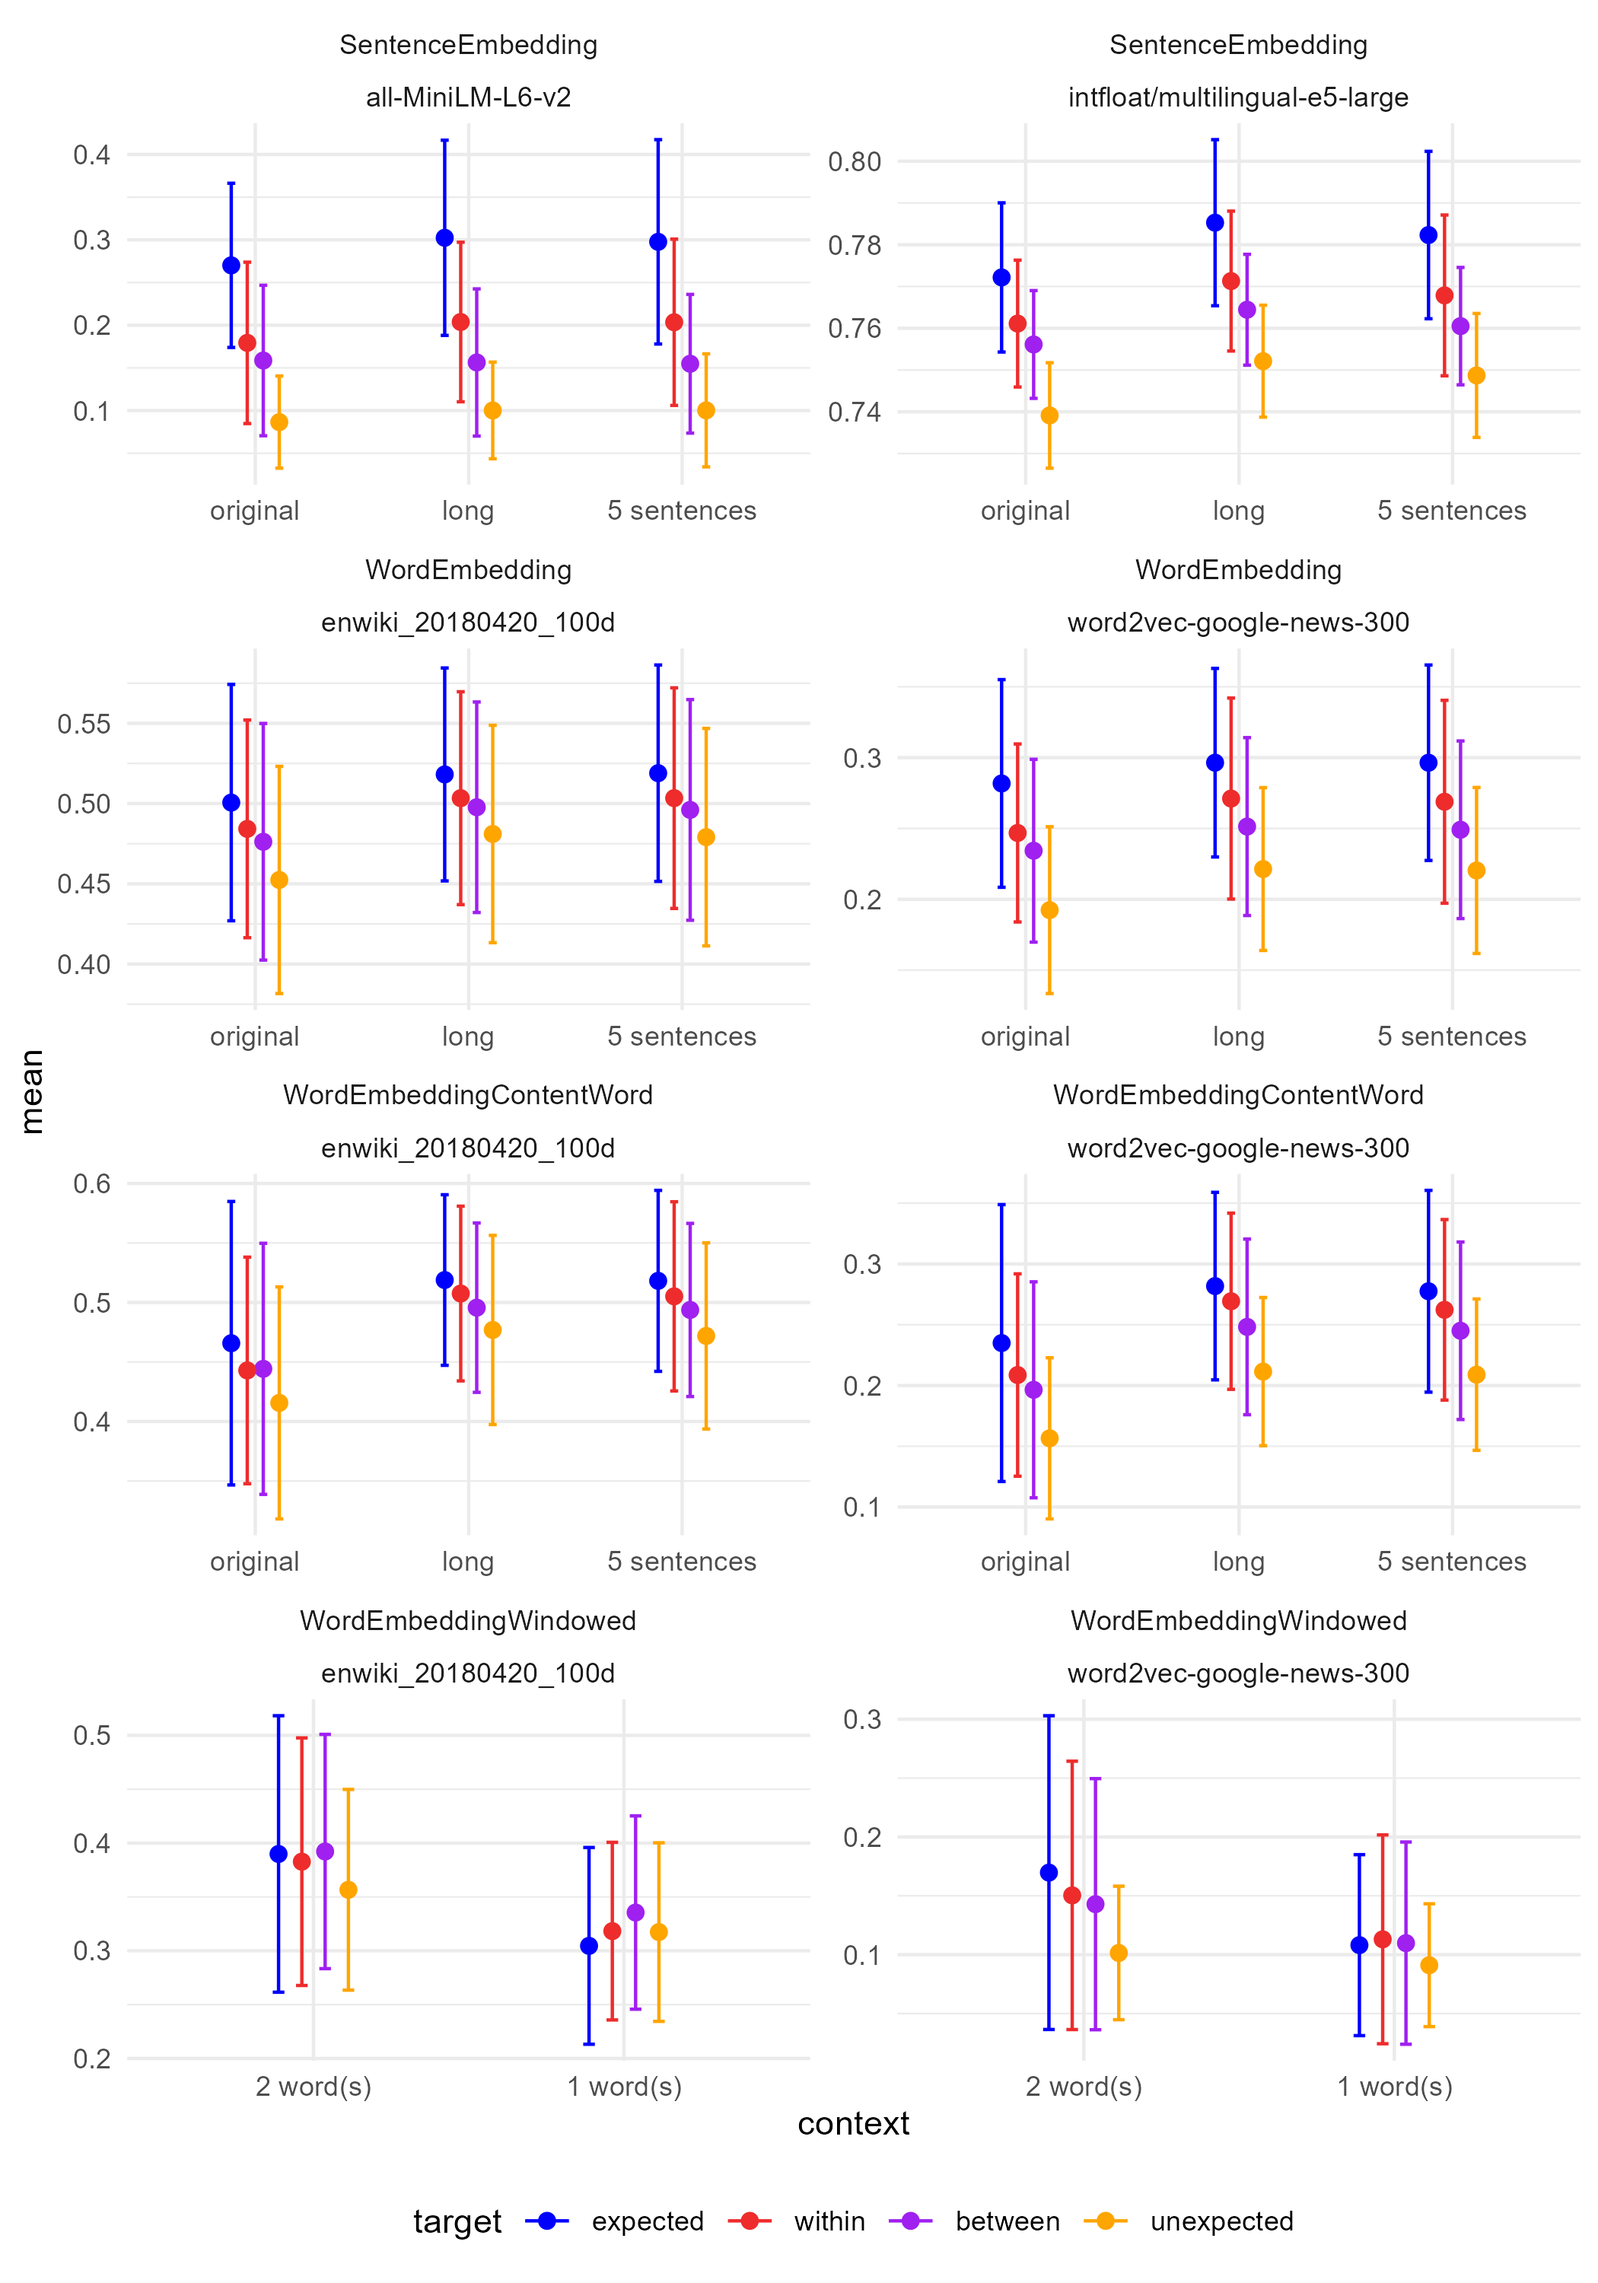
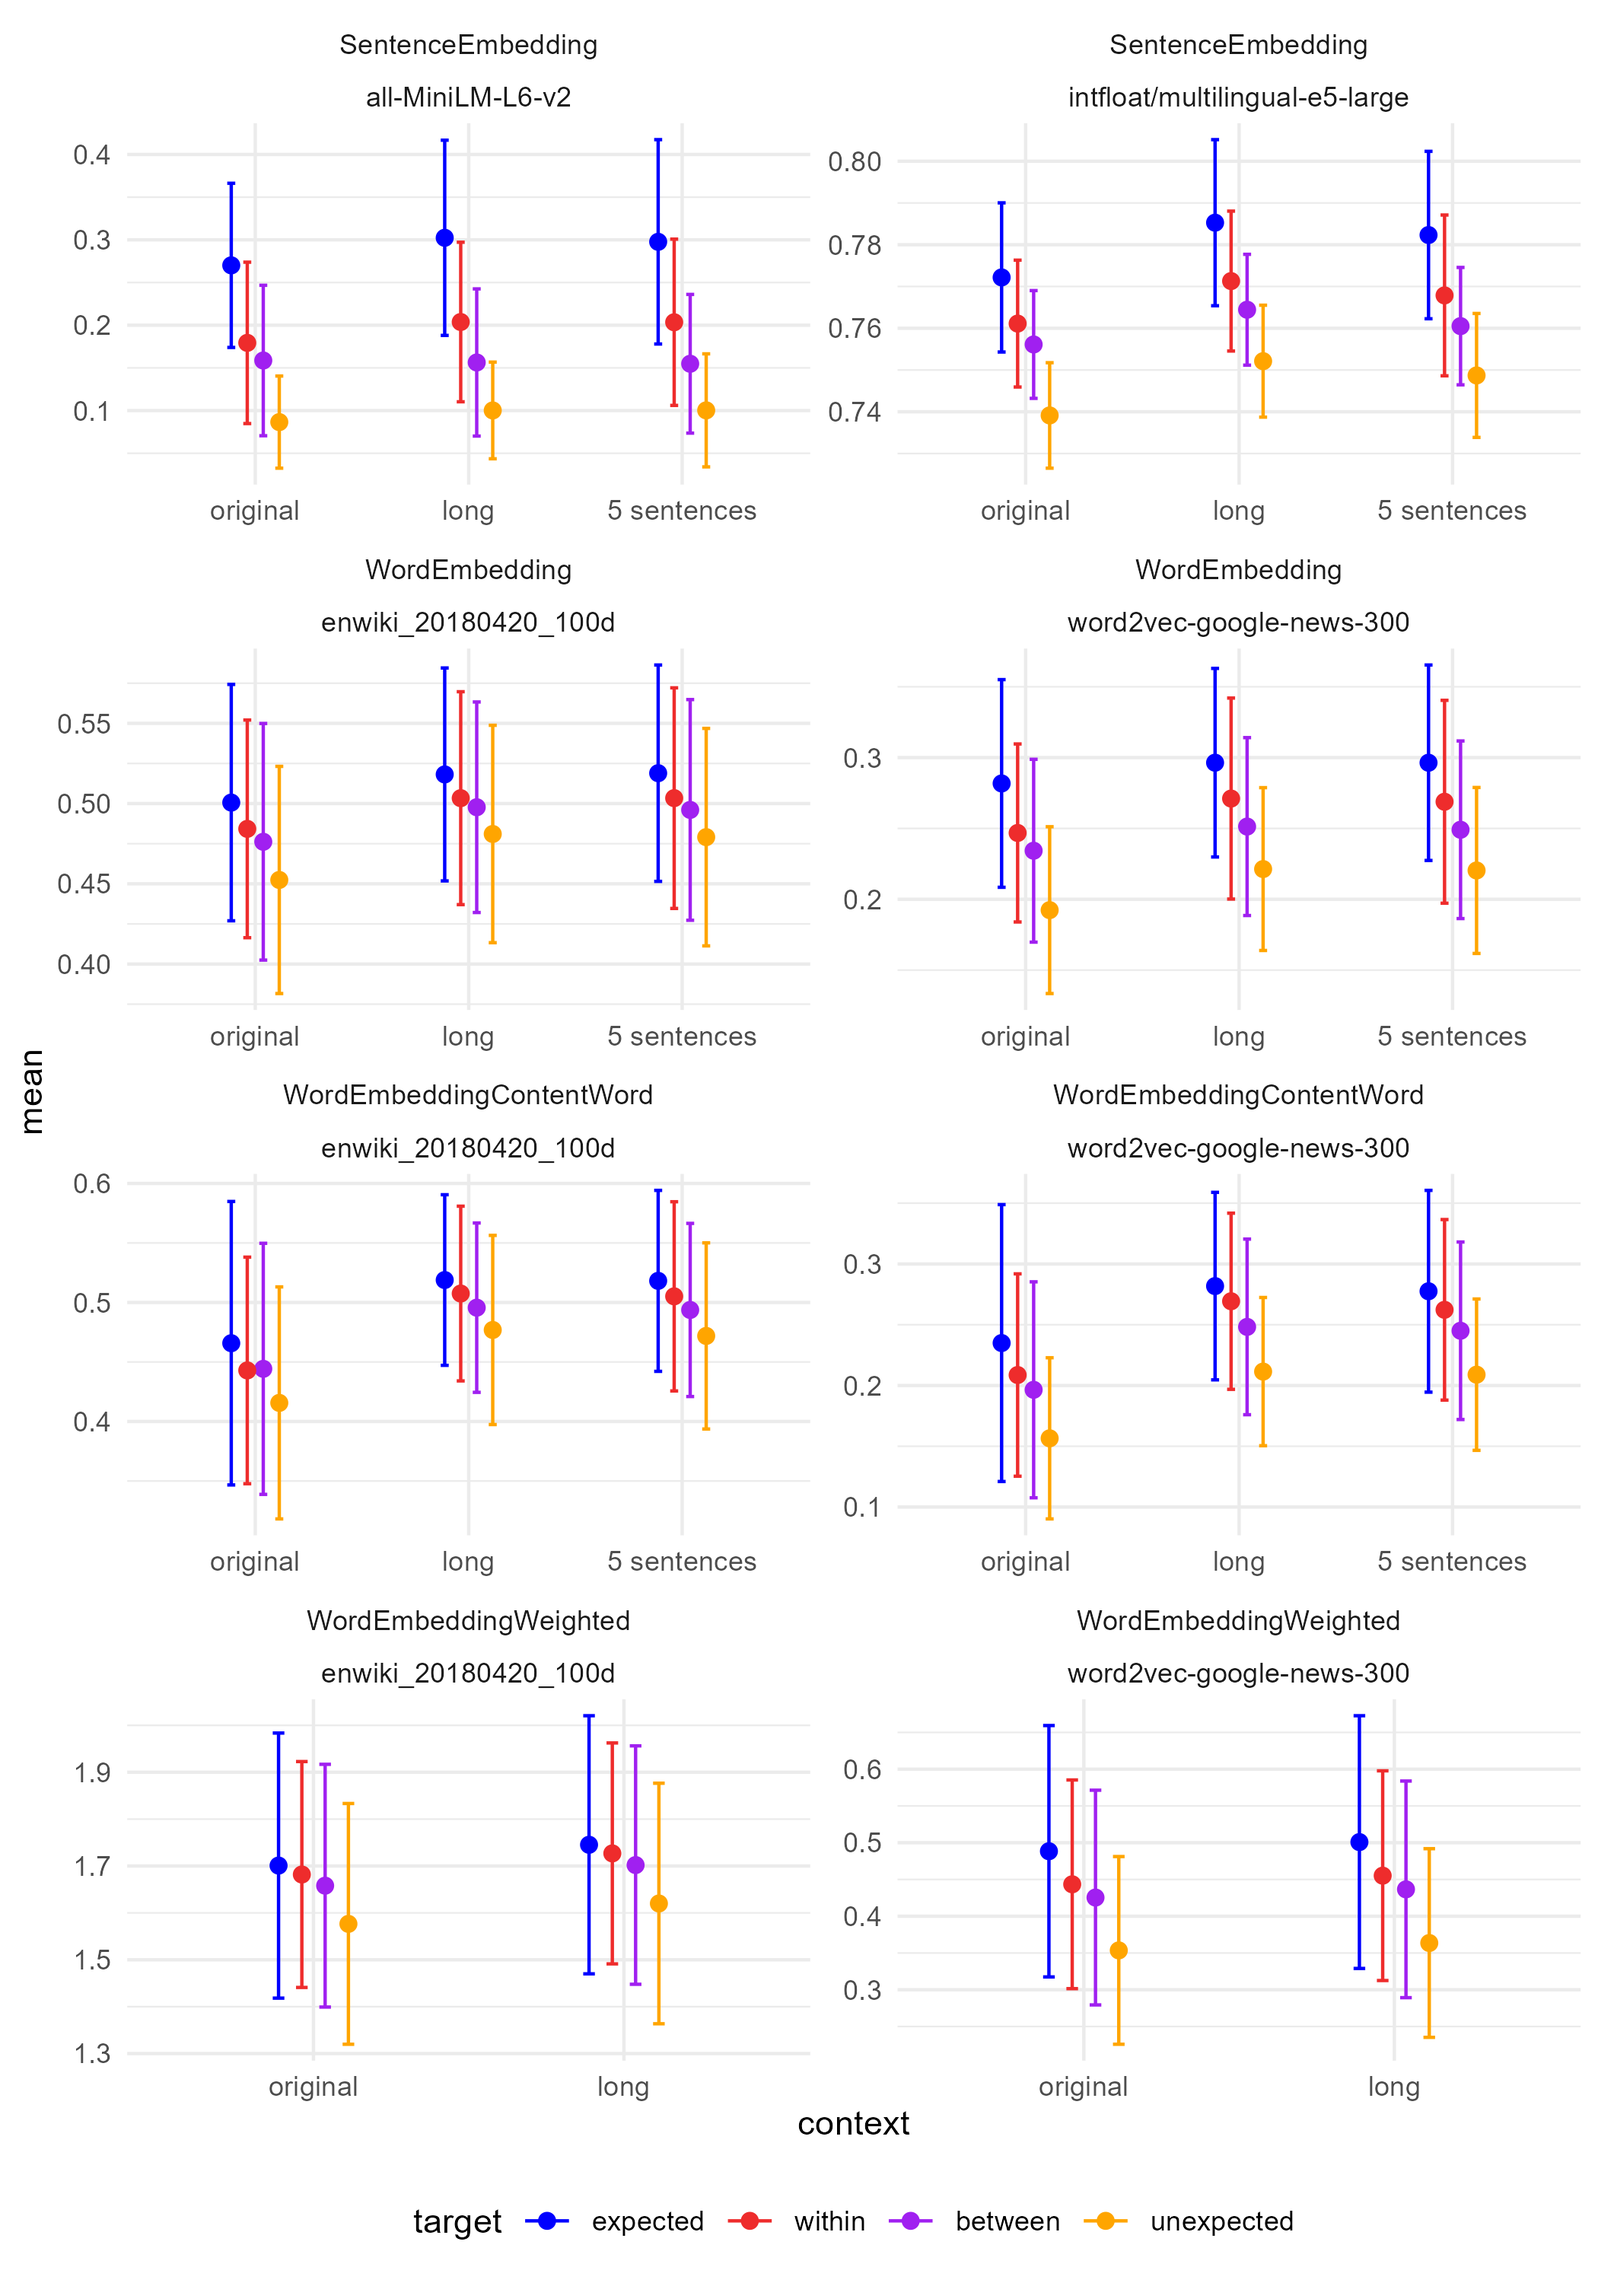
included weighted not windowed

diff --git a/validate_semantic_association.py b/validate_semantic_association.py
@@ -34,6 +34,7 @@ def stream_models(config_path):
     for model_config in config["models"]:
         model_type = model_config.pop("model_type")
         context = model_config.pop("context")
+        language = model_config.pop("language")
 
         # All remaining keys in model_config get passed to the constructor
         model_class = MODEL_REGISTRY[model_type]
@@ -44,6 +45,7 @@ def stream_models(config_path):
             "model": model,
             "embedding_model": model_type,
             "context": context,
+            "language": language,
             **model_config,  # Include any extra args like n_words
         }
 
@@ -163,14 +165,16 @@ def append_df_to_csv(
 if __name__ == "__main__":
     results_path = Path("results", "federmeier_kutas_validation.csv")
     # remove file if exists
-    if results_path.exists():
-        results_path.unlink()
+    # if results_path.exists():
+    #     results_path.unlink()
 
     # for config in stream_models("models_validation_config.toml"):
-    for config in stream_models("models_validation_config.toml"):
+    for config in stream_models("nl_models.toml"):
         print(f"Validating: {config}")
 
-        translated = config.get("translated", False)
+        language = config["language"]
+        assert language in ["en", "nl"]
+        translated = False if language == "en" else True
 
         for context in config["context"]:
             model = config["model"]
@@ -187,7 +191,7 @@ if __name__ == "__main__":
                 extra_cols={
                     "embedding_model": config["embedding_model"],
                     "model_name": model.model_name,
-                    "language": "nl" if translated else "en",
+                    "language": language,
                     "context": context,
                     "n_sentences": model.n_sentences - 1 if model.n_sentences else None,
                     "n_words": config.get("n_words", None),
